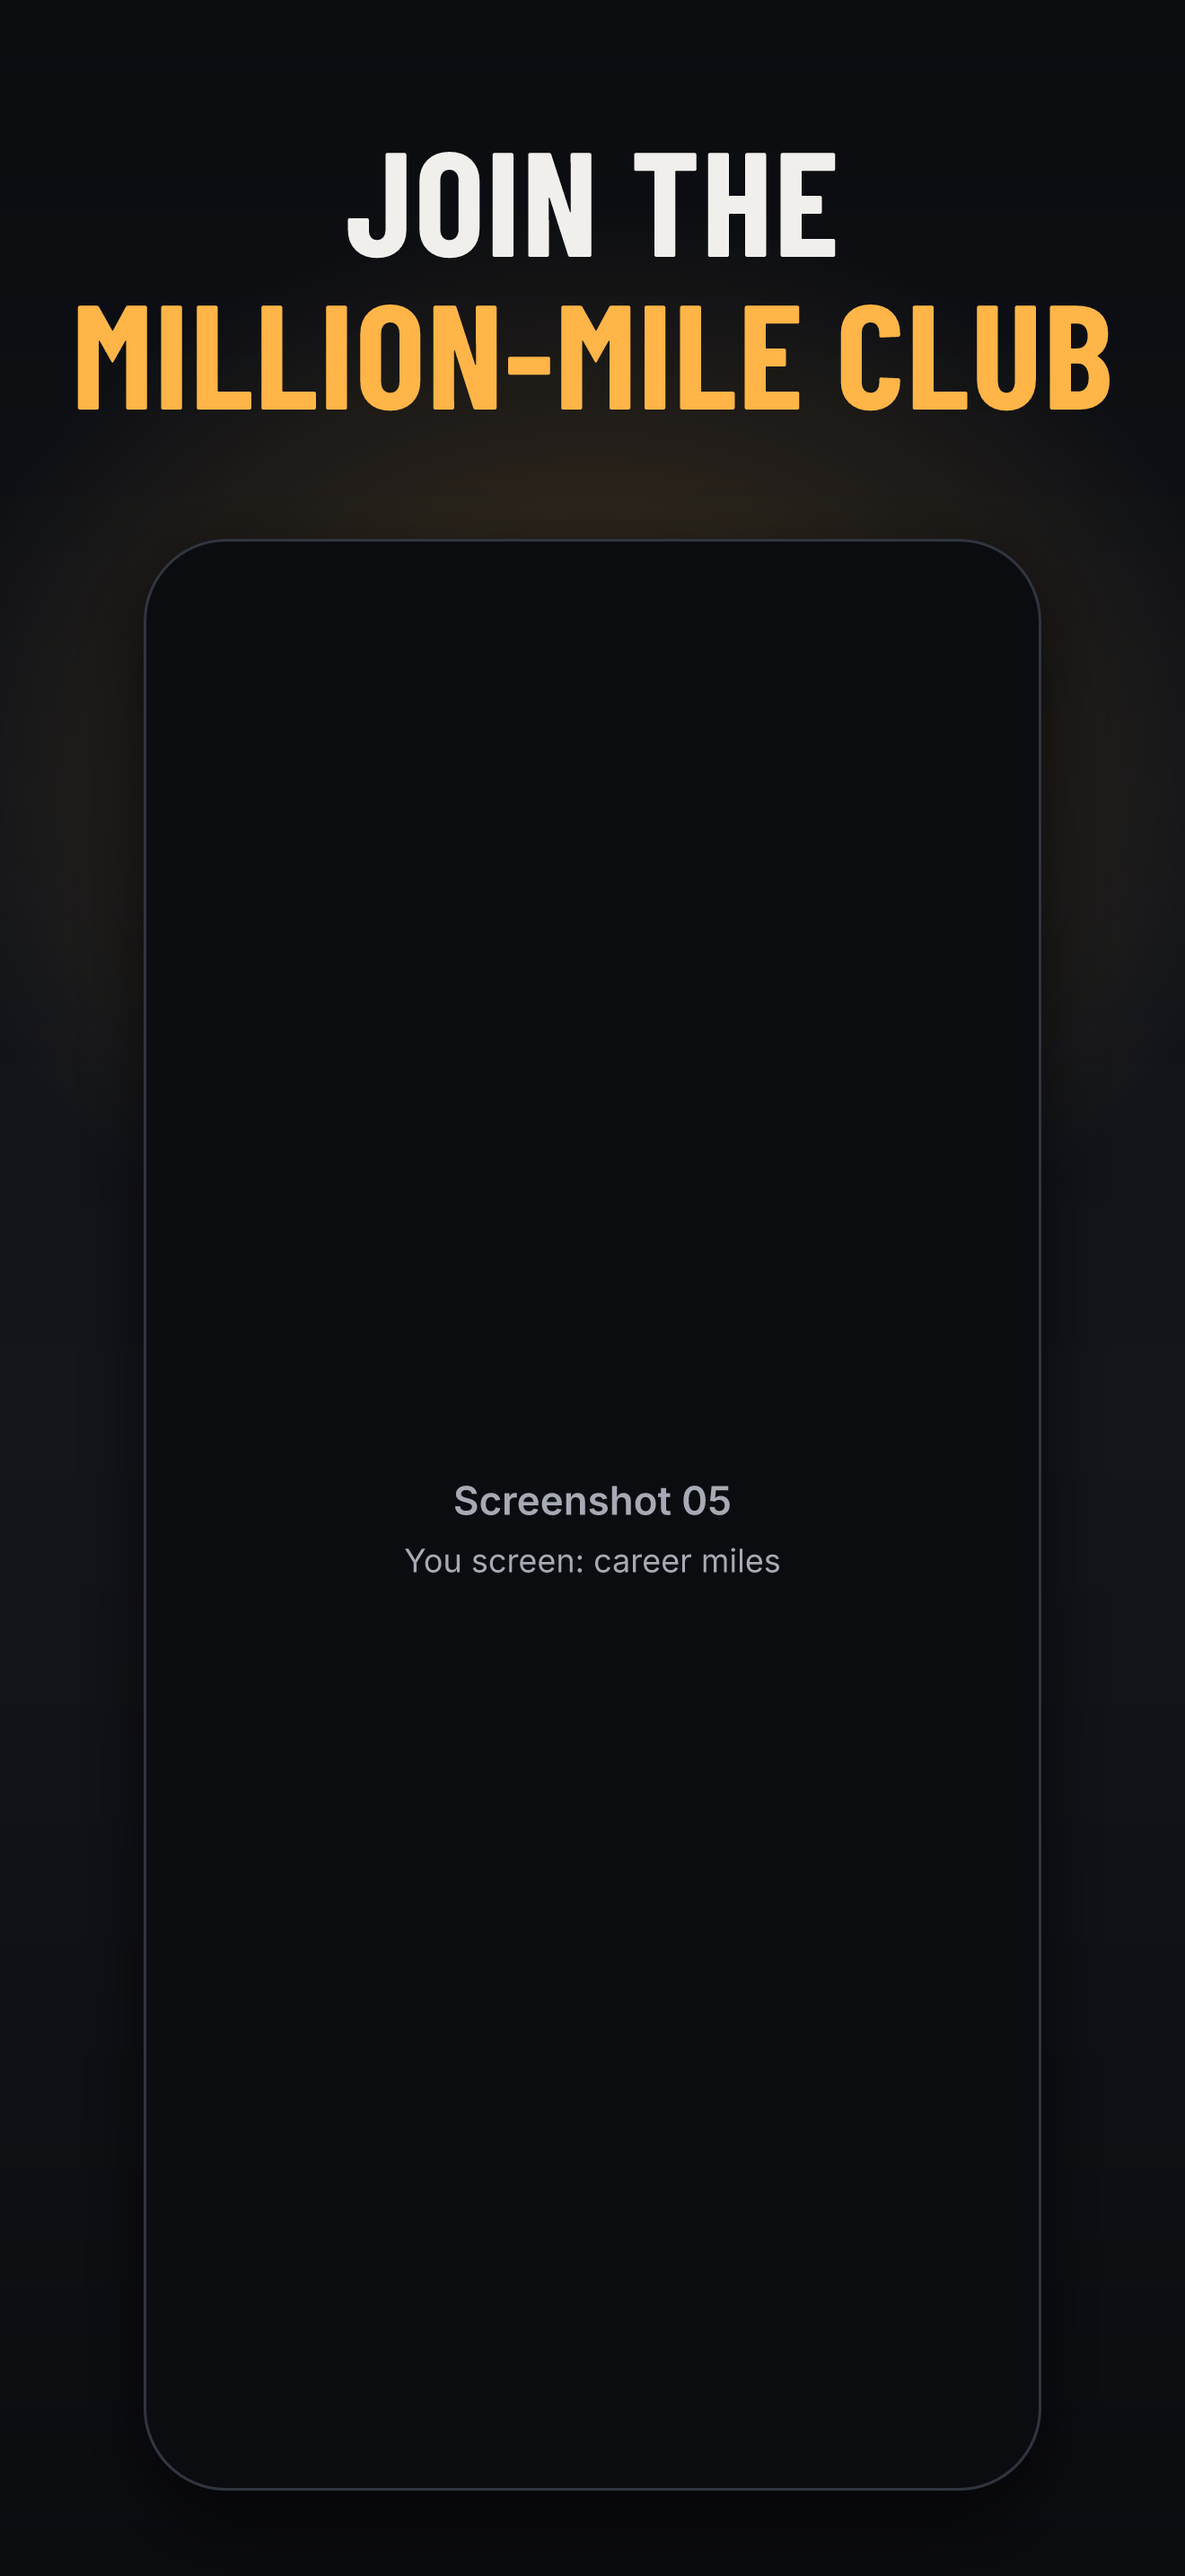
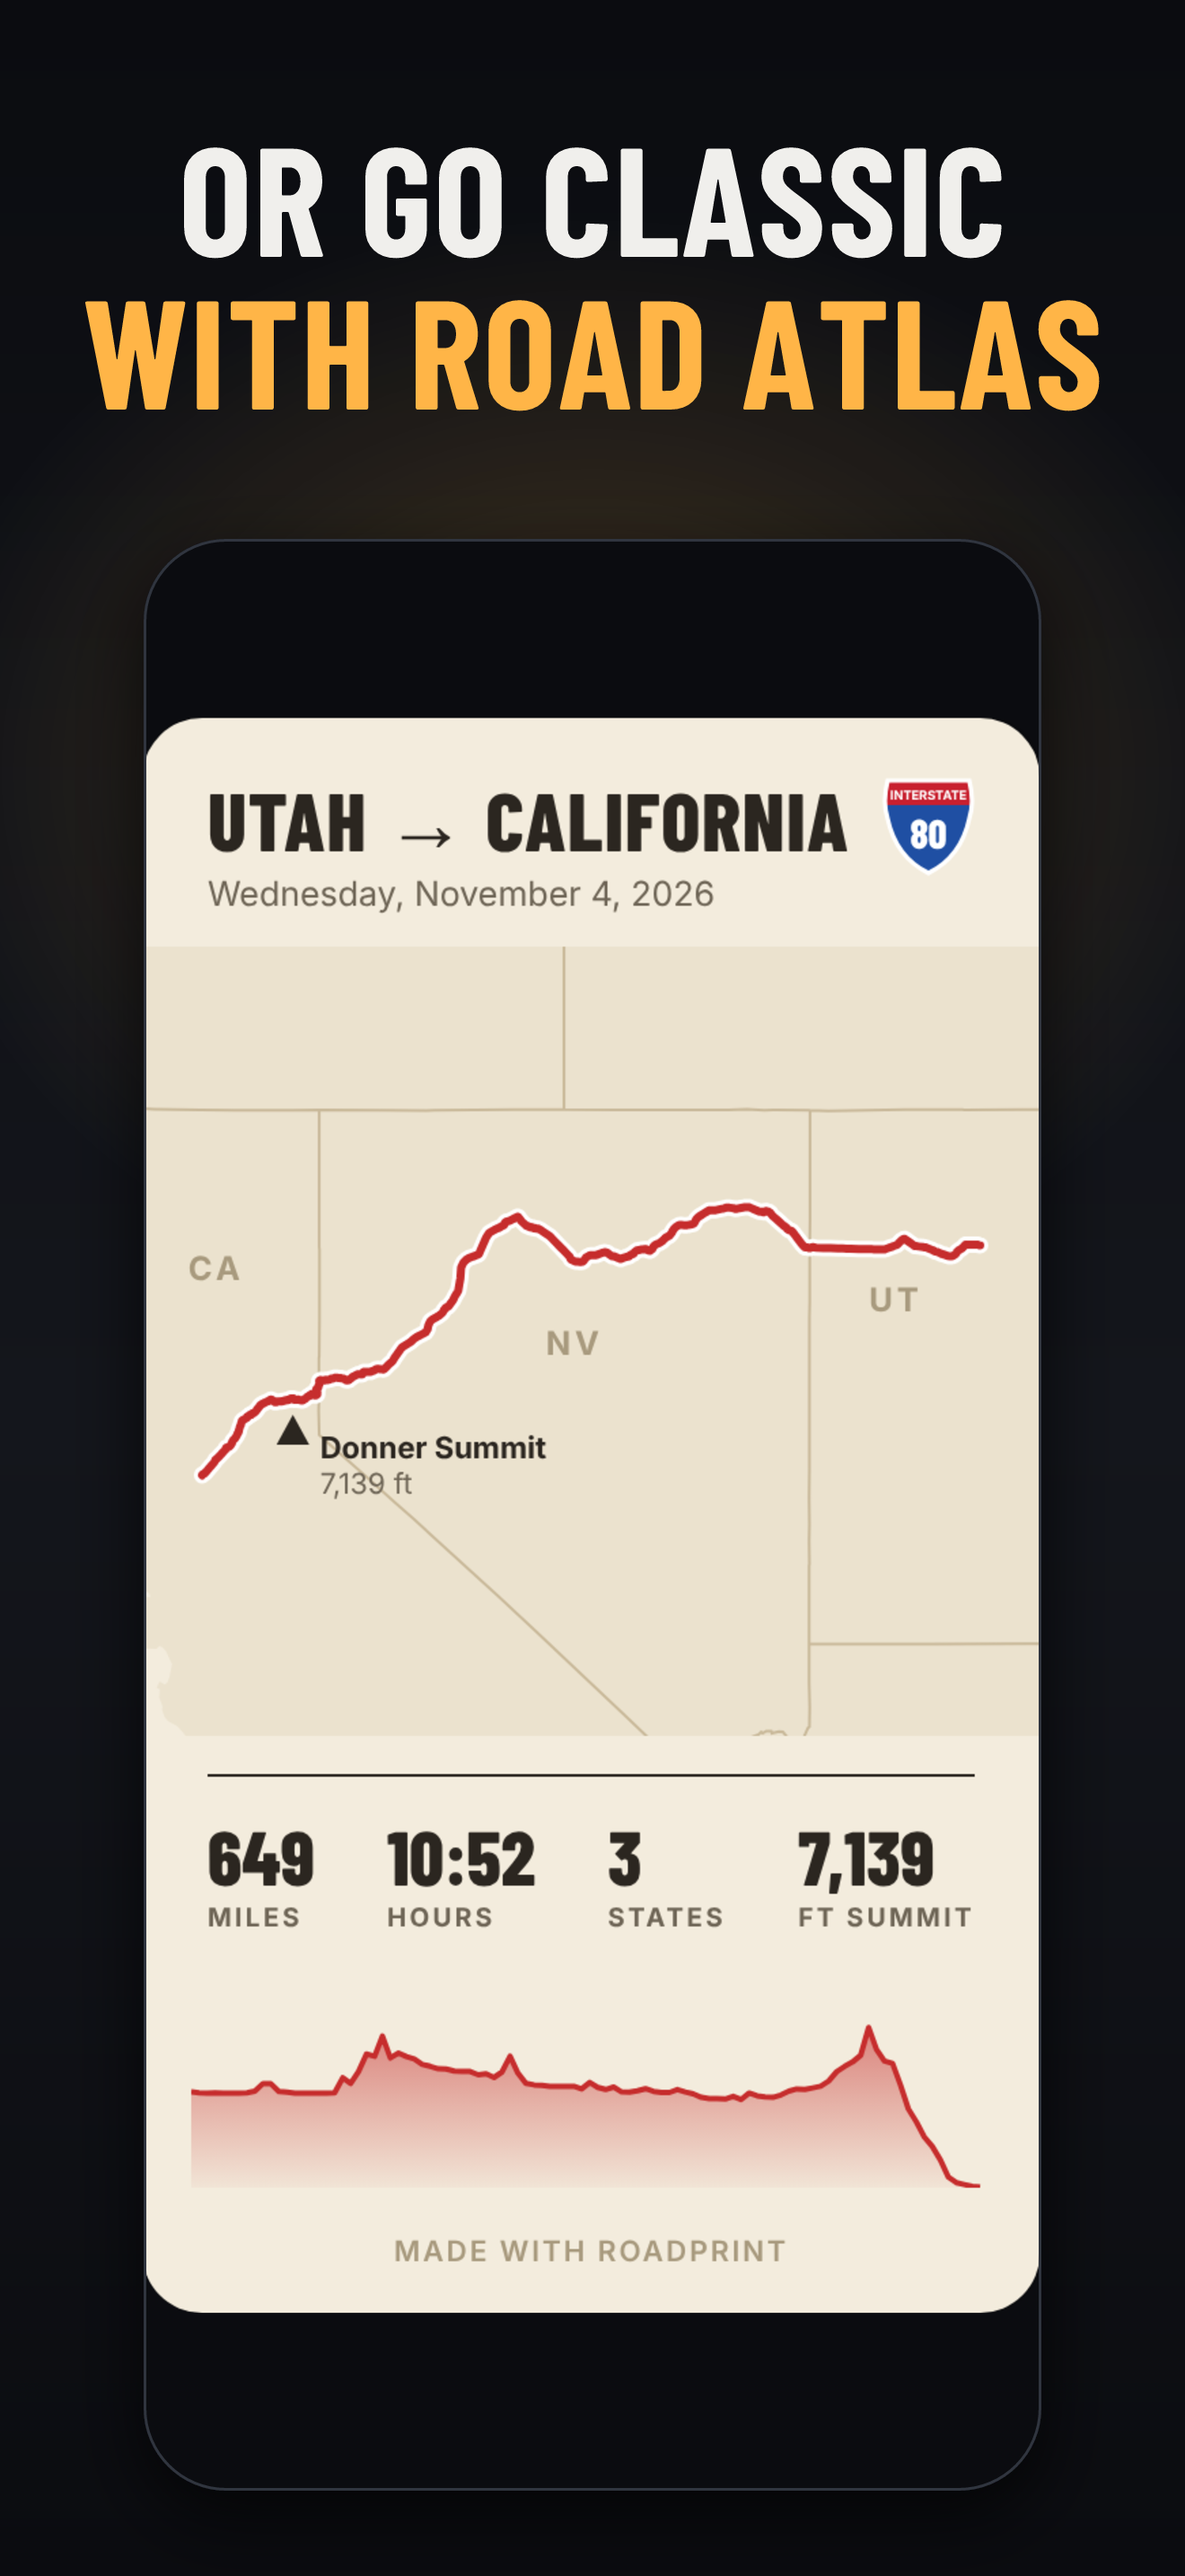
ROA-96: match caption 5 to ROA-95's Road Atlas capture
CTO review on #69: the fifth frame now says OR GO CLASSIC / WITH ROAD ATLAS,
the stand-in is the Road Atlas mockup card, and the README lists the ROA-95
capture names.

diff --git a/Design/appstore/README.md b/Design/appstore/README.md
@@ -4,11 +4,11 @@ Five framed screenshots for the 1.0 listing (plan §12.2). Each one has a night 
 
 | # | Caption (line 1 in text colour, line 2 in amber) | Screen |
 |---|---|---|
-| 01 | EVERY TRIP, / DRAWN AS ART | Trip complete |
-| 02 | SHARE YOUR ROAD / AS A CARD | Share card sheet |
-| 03 | YOUR PRINT OF / EVERY ROAD | My map |
-| 04 | ONE TAP TO START. / ONE TO END. | Drive |
-| 05 | JOIN THE / MILLION-MILE CLUB | You (career miles) |
+| 01 | EVERY TRIP, / DRAWN AS ART | Trip summary (`01-trip-summary`) |
+| 02 | SHARE YOUR ROAD / AS A CARD | Share sheet, Night Highway (`02-night-highway`) |
+| 03 | YOUR PRINT OF / EVERY ROAD | My map (`03-my-map`) |
+| 04 | ONE TAP TO START. / ONE TO END. | Drive (`04-drive`) |
+| 05 | OR GO CLASSIC / WITH ROAD ATLAS | Share sheet, Road Atlas (`05-road-atlas`) |
 
 - `frame.svg` is the 1320 × 2868 template. `caption-line-1` and `caption-line-2` are text placeholders, and `screenshot-placeholder` is the screen area (x 160, y 600, 1000 × 2173, corner radius 92).
 - `out/01.png` to `out/05.png` are the files to upload. They are exactly 1320 × 2868, 8-bit RGB, with no alpha channel.
@@ -19,7 +19,7 @@ Five framed screenshots for the 1.0 listing (plan §12.2). Each one has a night 
 
 ```bash
 cd Tools/design && npm ci && node fetch-fonts.mjs
-node appstore.mjs --in /path/to/raw-screenshots   # 5 raw 1320×2868 PNGs, name order = screenshot order
+node appstore.mjs --in /path/to/raw-screenshots   # the 5 PNGs from the ROA-95 `appstore-screenshots` artifact (01-trip-summary … 05-road-atlas)
 node appstore.mjs                                 # no input: stand-ins into previews/
 ```
 
